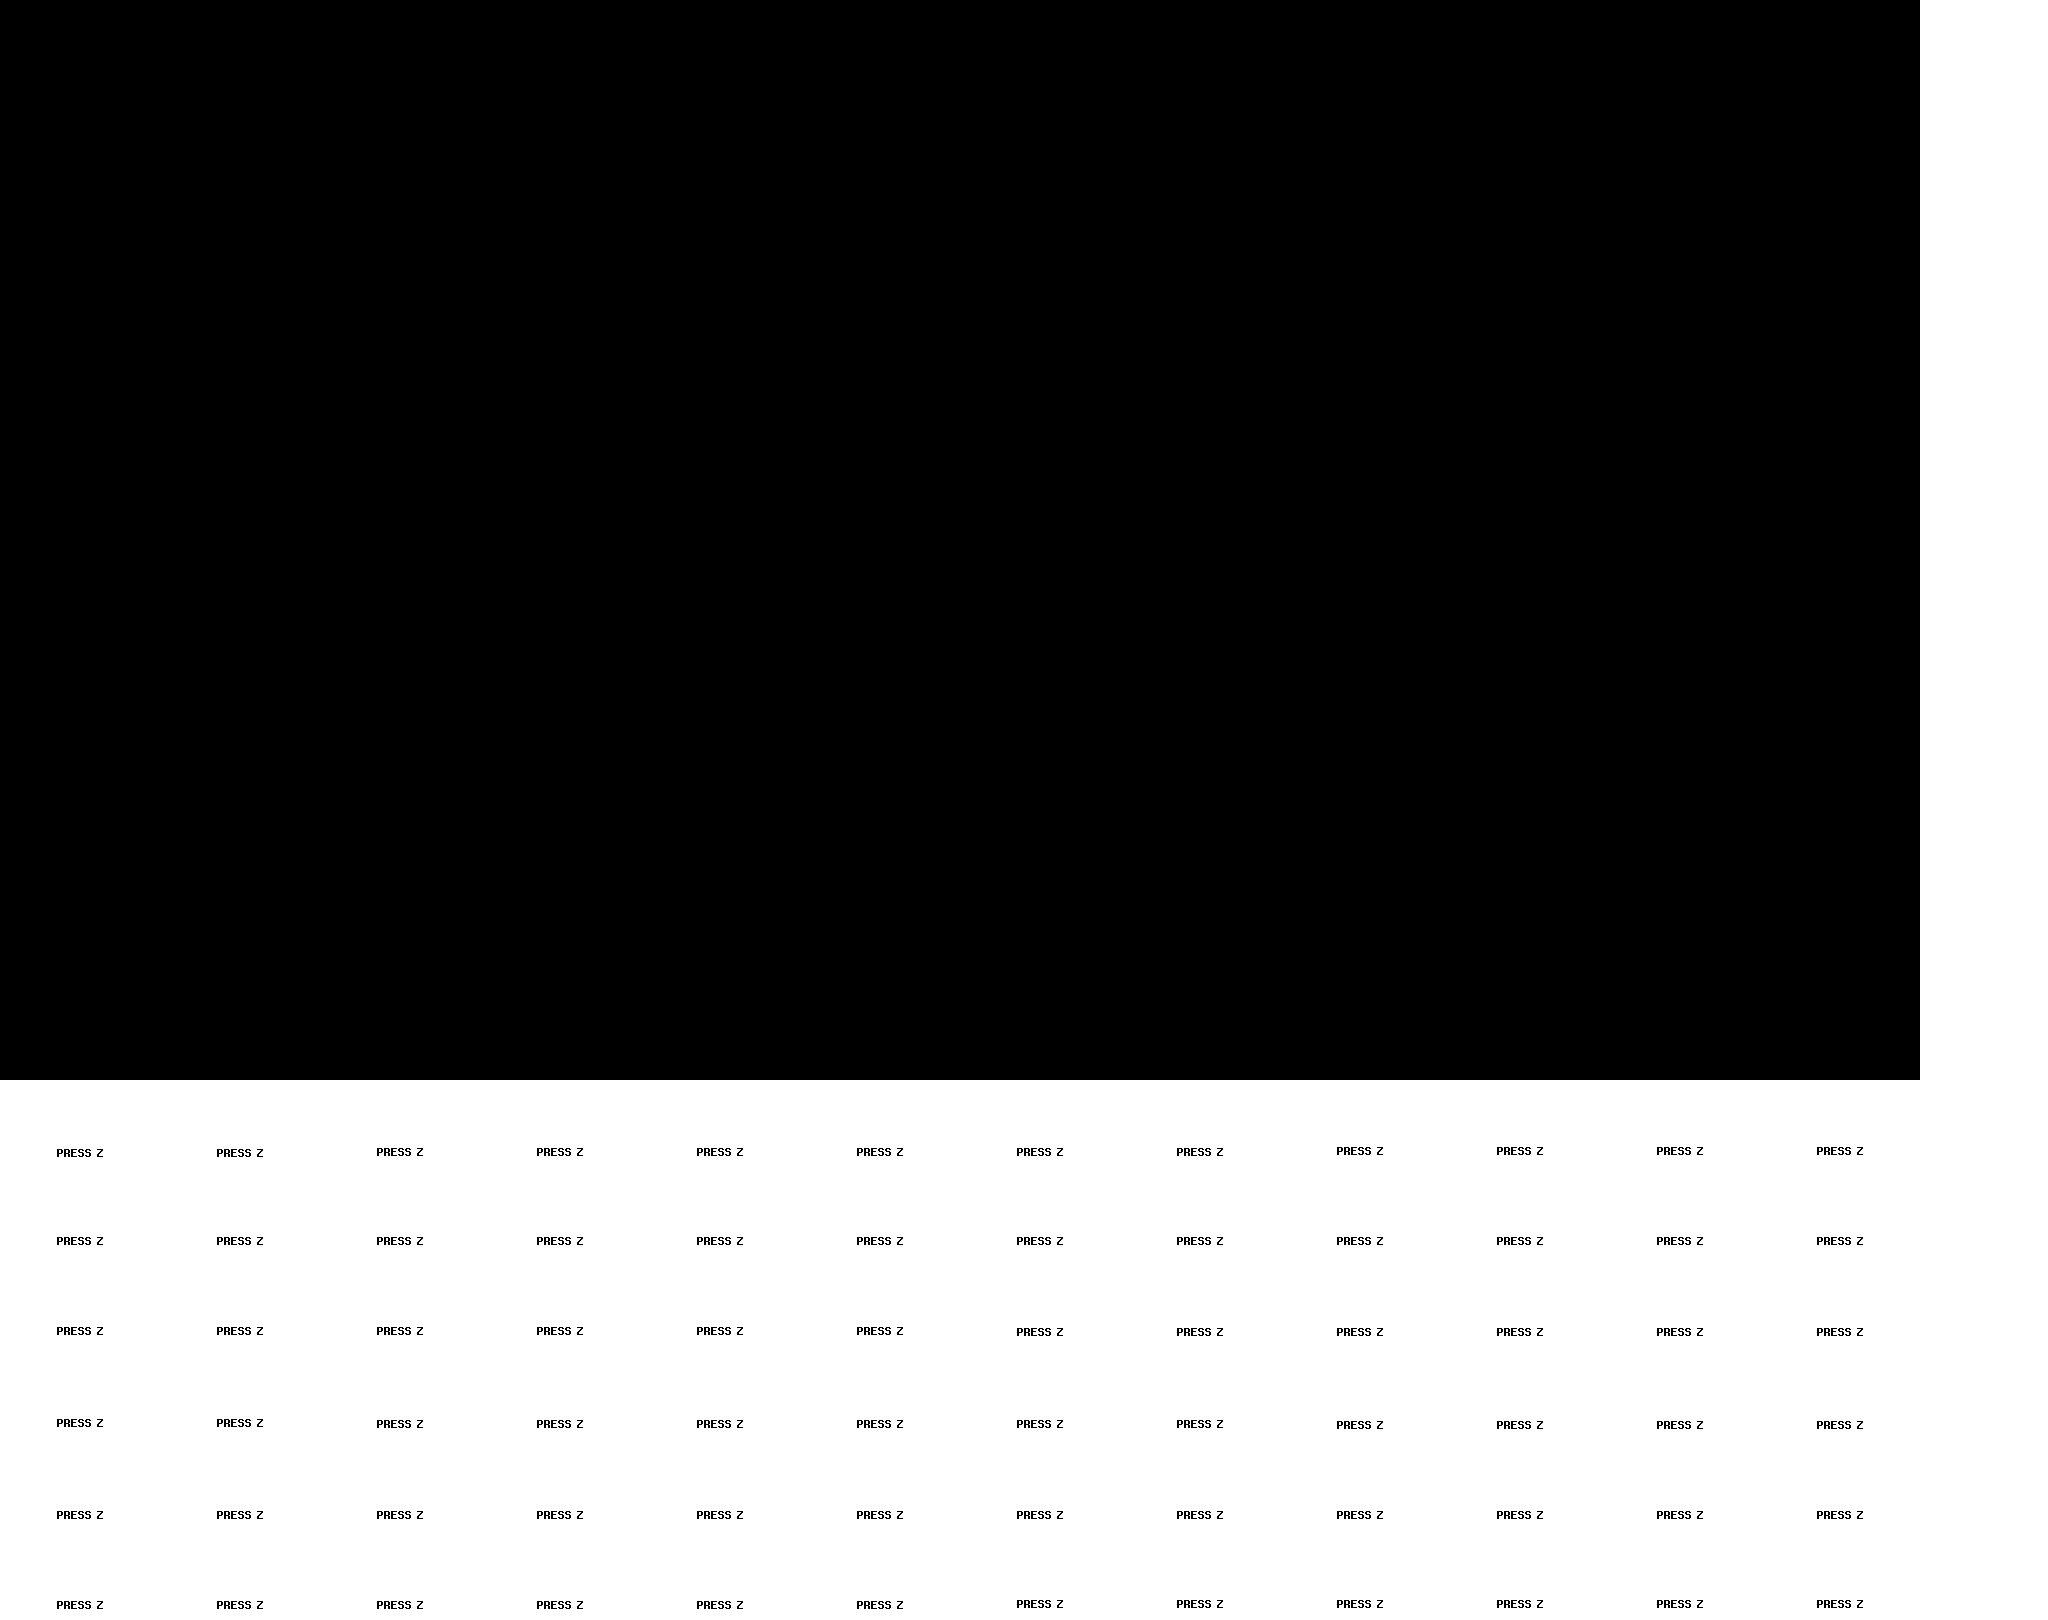
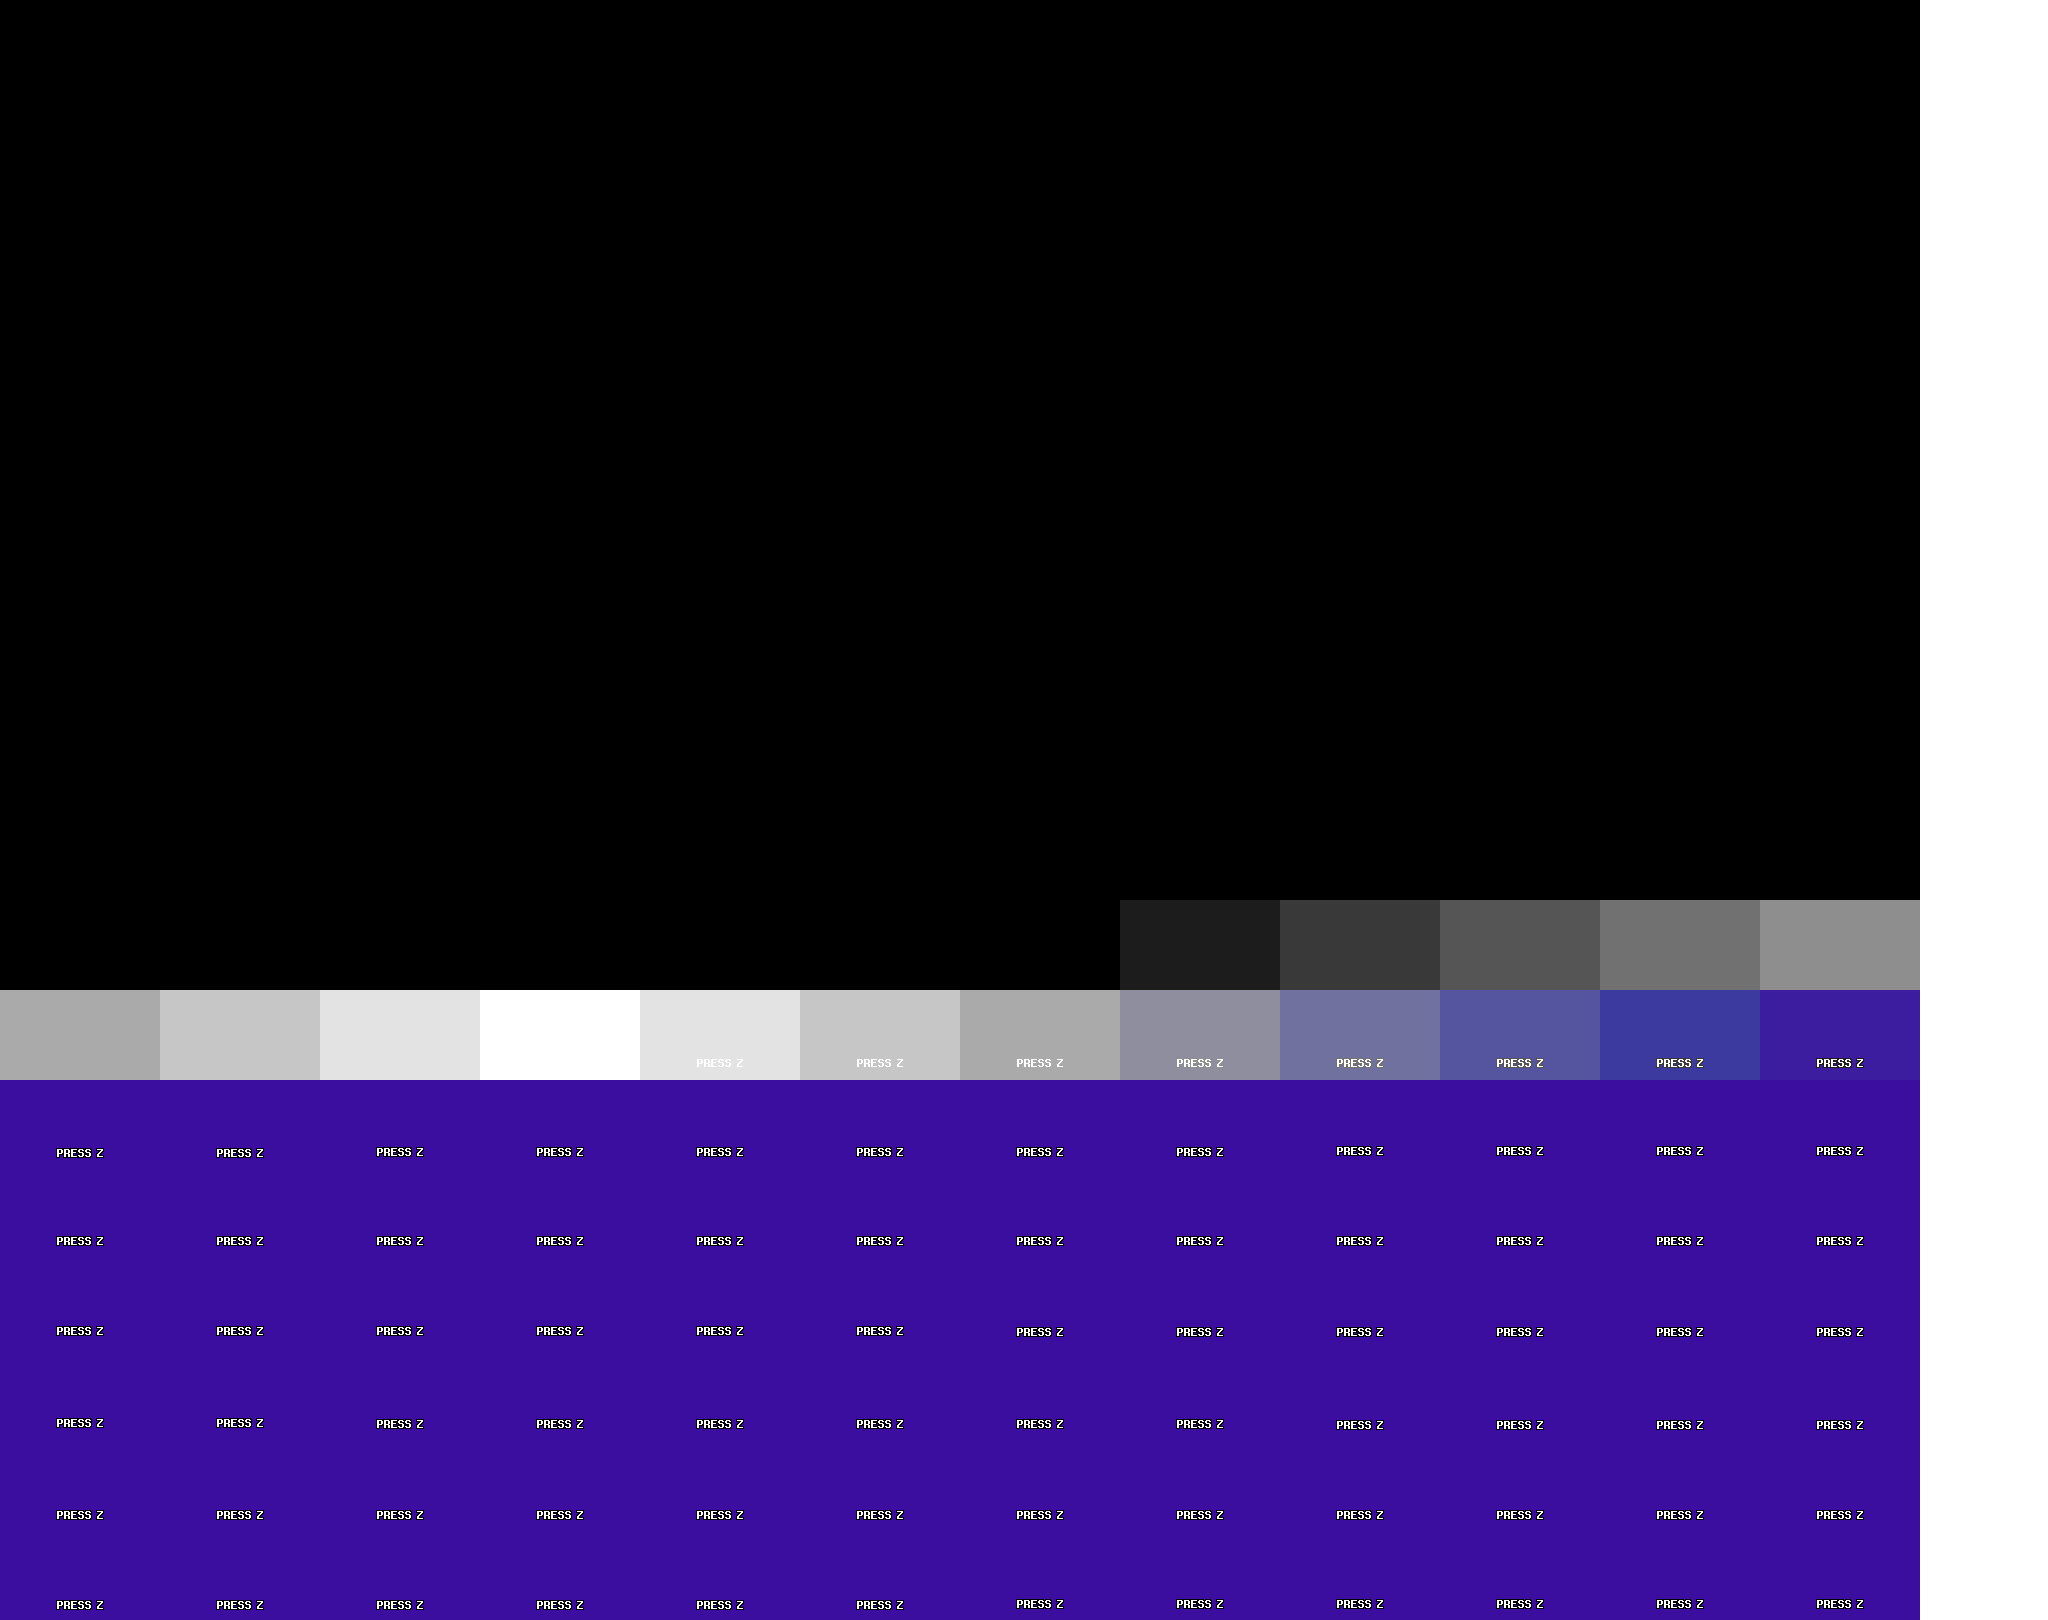
Added title screen animation

diff --git a/src/Battle.cs b/src/Battle.cs
@@ -3,126 +3,146 @@ using System;
 using System.Collections.Generic;
 
 internal sealed class Battle : Superstate<Battle> {
-	private const byte TilePixelWidth = 17;
-	private const byte TilePixelHeight = 15;
+	private const byte BattlefieldRowCount = 5;
+	private const byte BattlefieldColumnCount = 9;
 	private const byte BattlefieldPixelOffset = 4;
 
-	private readonly TowerDatum[] TowerData = [
-		new([], "null", 0, (TowerClockData data) => {}, 0),
-		new([ 1 ], "tower_1", 2, (TowerClockData data) => data.battle.MoneyClock.Tick(data.battle), 1),
-		new([ 2 ], "tower_2", 5, (TowerClockData data) => {}, 0),
-		new([ 3 ], "tower_3", 4, (TowerClockData data) => data.battle.Projectiles[data.row].Add(new(0, data.column)), 90),
-		new([ 4 ], "tower_2", 2, (TowerClockData data) => {}, 0)
+	private static readonly TowerDatum[] TowerData = [
+		new([], "null", 0, _ => { }, 0),
+		new([1], "tower_1", 2, data => data.battle.MoneyClock.Tick(data.battle), 1),
+		new([2], "tower_2", 5, data => { }, 0),
+		new([3], "tower_3", 4, data => data.battle.Projectiles[data.row].Add(new(0, data.column)), 90),
+		new([4], "tower_2", 2, data => { }, 0)
 	];
 
-	private readonly ProjectileDatum[] ProjectileData = [
+	private static readonly ProjectileDatum[] ProjectileData = [
 		new("tower_1", 1, 2)
 	];
 
-	private readonly EnemyDatum[] EnemyData = [
+	private static readonly EnemyDatum[] EnemyData = [
 		new("tower_2", 10, 1),
 		new("tower_2", 28, 1),
 		new("tower_2", 17, 2),
 		new("tower_2", 65, 1)
 	];
 
-	private readonly Clock<Battle> MoneyClock = new(600, (Battle battle) => Clamper.IncrementToMax(ref battle.Money, 300));
-	private readonly Tower[,] Towers = new Tower[5, 9];
-	private readonly HashSet<Projectile>[] Projectiles;
-	private readonly HashSet<Enemy>[] Enemies;
-	private readonly Sprite Background = new("frame");
-	private readonly Sprite ArrowUpTexture = new("arrow_up");
-	private readonly Sprite ArrowDownTexture = new("arrow_down");
-	private readonly Sprite CursorTexture = new("cursor");
+	private static readonly Sprite Background = new("frame");
+	private static readonly Sprite ArrowUpTexture = new("arrow_up");
+	private static readonly Sprite ArrowDownTexture = new("arrow_down");
+	private static readonly Sprite CursorTexture = new("cursor");
+
+	private static ushort ColumnToPosition(byte column) {
+		return (ushort)(BattlefieldPixelOffset + (column * 17));
+	}
+
+	private static ushort RowToPosition(byte row) {
+		return (ushort)(BattlefieldPixelOffset + (row * 15));
+	}
+
+	private void ForEachItem(Action<Tower, byte, byte> towerAction, Action<Projectile, byte> projectileAction, Action<Enemy, byte> enemyAction) {
+		Utility.ForEach(BattlefieldRowCount, row => {
+			Utility.ForEach(BattlefieldColumnCount, column => towerAction(Towers[row, column], row, column));
+
+			for (var i = Projectiles[row].Count - 1; i >= 0; i -= 1) {
+				projectileAction(Projectiles[row][i], row);
+			}
+
+			for (var i = Enemies[row].Count - 1; i >= 0; i -= 1) {
+				enemyAction(Enemies[row][i], row);
+			}
+		});
+	}
+
+	private readonly Clock<Battle> MoneyClock = new(600, (Battle battle) => Utility.IncrementToMax(ref battle.Money, 300));
+
+	private readonly Tower[,] Towers = new Tower[BattlefieldRowCount, BattlefieldColumnCount] {
+		{ new(0), new(0), new(0), new(0), new(0), new(0), new(0), new(0), new(0) },
+		{ new(0), new(0), new(0), new(0), new(0), new(0), new(0), new(0), new(0) },
+		{ new(0), new(0), new(0), new(0), new(0), new(0), new(0), new(0), new(0) },
+		{ new(0), new(0), new(0), new(0), new(0), new(0), new(0), new(0), new(0) },
+		{ new(0), new(0), new(0), new(0), new(0), new(0), new(0), new(0), new(0) }
+	};
+
+	private readonly List<Projectile>[] Projectiles = new List<Projectile>[BattlefieldRowCount] {
+		[], [], [], [], []
+	};
+
+	private readonly List<Enemy>[] Enemies = new List<Enemy>[BattlefieldRowCount] {
+		[], [], [], [], []
+	};
 
 	private byte Money = 20;
 	private byte CursorRow;
 	private byte CursorColumn;
 
 	public Battle() : base(new SelectState()) {
-		for (var row = 0; row < Towers.GetLength(0); row += 1) {
-			for (var col = 0; col < Towers.GetLength(1); col += 1) {
-				Towers[row, col] = new(0, TowerData);
-			}
-		};
-
-		Projectiles = new HashSet<Projectile>[Towers.GetLength(0)];
-		for (var i = 0; i < Towers.GetLength(0); i += 1) {
-			Projectiles[i] = [];
-		}
-
-		Enemies = new HashSet<Enemy>[Towers.GetLength(0)];
-		for (var i = 0; i < Towers.GetLength(0); i += 1) {
-			Enemies[i] = [];
-		}
+		Enemies[0].Add(new(0));
 	}
 
 	protected override void Update() {
 		MoneyClock.Tick(this);
 
-		for (var row = 0; row < Towers.GetLength(0); row += 1) {
-			for (var col = 0; col < Towers.GetLength(1); col += 1) {
-				Towers[row, col].clock.Tick(new(this, row, col));
-			}
-		};
+		ForEachItem(
+			(tower, row, column) => tower.clock.Tick(new(this, row, column)),
+			(projectile, row) => {
+				Enemy? enemy = Enemies[row].Find(enemy => {
+					var difference = enemy.position - projectile.position;
+					return difference >= 0 && difference < ProjectileData[projectile.datumId].speed;
+				});
 
-		foreach (var row in Projectiles) {
-			foreach (var projectile in row) {
-				projectile.position += ProjectileData[projectile.datumId].speed;
+				if (enemy != null) {
+					_ = Projectiles[row].Remove(projectile);
 
-				if (projectile.position >= TilePixelWidth * Towers.GetLength(1) + BattlefieldPixelOffset) {
-					row.Remove(projectile);
+					enemy.health -= 1;
+					if (enemy.health == 0) {
+						_ = Enemies[row].Remove(enemy);
+					}
+				} else {
+					projectile.position += ProjectileData[projectile.datumId].speed;
+
+					if (projectile.position >= ColumnToPosition(BattlefieldColumnCount)) {
+						_ = Projectiles[row].Remove(projectile);
+					}
 				}
-			}
-		}
-
-		foreach (var row in Enemies) {
-			foreach (var enemy in row) {
-				enemy.position -= EnemyData[enemy.datumId].speed;
-
-				if (enemy.position <= 0) {
-					row.Remove(enemy);
-				}
-			}
-		}
+			},
+			(enemy, row) => enemy.clock.Tick(new(enemy, Enemies[row].Remove))
+		);
 	}
 
 	protected override void Draw() {
 		Game.Draw(Background);
-		Game.DrawString([ (byte) (Money / 10), (byte) (Money % 10) ], 7, 81);
+		Game.DrawString([(byte)(Money / 10), (byte)(Money % 10)], 7, 81);
 
-		for (var row = 0; row < Towers.GetLength(0); row += 1) {
-			for (var col = 0; col < Towers.GetLength(1); col += 1) {
-				Game.Draw(TowerData[Towers[row, col].datumId].sprite, BattlefieldPixelOffset + col * TilePixelWidth, BattlefieldPixelOffset + row * TilePixelHeight);
-			}
-		}
+		ForEachItem(
+			(tower, row, column) => Game.Draw(TowerData[tower.datumId].sprite, ColumnToPosition(column), RowToPosition(row)),
+			(projectile, row) => Game.Draw(ProjectileData[projectile.datumId].sprite, projectile.position, RowToPosition(row)),
+			(enemy, row) => Game.Draw(EnemyData[enemy.datumId].sprite, enemy.position, RowToPosition(row))
+		);
 
-		for (var row = 0; row < Enemies.Length; row += 1) {
-			foreach (var enemy in Enemies[row]) {
-				Game.Draw(EnemyData[enemy.datumId].sprite, enemy.position, BattlefieldPixelOffset + row * TilePixelHeight);
-			}
-		}
-
-		for (var row = 0; row < Projectiles.Length; row += 1) {
-			foreach (var projectile in Projectiles[row]) {
-				Game.Draw(ProjectileData[projectile.datumId].sprite, projectile.position, BattlefieldPixelOffset + row * TilePixelHeight);
-			}
-		}
-
-		Game.Draw(CursorTexture, BattlefieldPixelOffset + CursorColumn * TilePixelWidth, BattlefieldPixelOffset + CursorRow * TilePixelHeight);
+		Game.Draw(CursorTexture, ColumnToPosition(CursorColumn), RowToPosition(CursorRow));
 
 		base.Draw();
 	}
 
 	private readonly struct TowerClockData {
 		internal readonly Battle battle;
-		internal readonly int row;
-		internal readonly int column;
+		internal readonly byte row;
+		internal readonly byte column;
 
-		internal TowerClockData(Battle battle, int row, int column) {
+		internal TowerClockData(Battle battle, byte row, byte column) {
 			this.battle = battle;
 			this.row = row;
 			this.column = column;
+		}
+	}
+
+	private readonly struct EnemyClockData {
+		internal readonly Enemy enemy;
+		internal readonly Func<Enemy, bool> removeFromRow;
+
+		internal EnemyClockData(Enemy enemy, Func<Enemy, bool> removeFromRow) {
+			this.enemy = enemy;
+			this.removeFromRow = removeFromRow;
 		}
 	}
 
@@ -170,89 +190,100 @@ internal sealed class Battle : Superstate<Battle> {
 		internal readonly int datumId;
 		internal readonly Clock<TowerClockData> clock;
 
-		internal Tower(int datumId, TowerDatum[] data) {
+		internal Tower(int datumId) {
 			this.datumId = datumId;
-			clock = new(data[datumId].period, data[datumId].update);
+			clock = new(TowerData[datumId].period, TowerData[datumId].update);
 		}
 	}
 
 	private sealed class Projectile {
 		internal readonly int datumId;
+		
 		internal int position;
 
-		internal Projectile(int datumId, int column) {
+		internal Projectile(int datumId, byte column) {
 			this.datumId = datumId;
-			position = BattlefieldPixelOffset + column * TilePixelWidth;
+			position = ColumnToPosition(column);
 		}
 	}
 
 	private sealed class Enemy {
 		internal readonly int datumId;
-		internal byte health;
-		internal ushort position = 160;
 
-		internal Enemy(int datumId, EnemyDatum[] data) {
+		internal readonly Clock<EnemyClockData> clock = new(20, (EnemyClockData data) => {
+			data.enemy.position -= 1;
+			if (data.enemy.position <= 0) {
+				_ = data.removeFromRow(data.enemy);
+			}
+		});
+
+		internal byte health;
+		internal int position;
+
+		internal Enemy(int datumId) {
 			this.datumId = datumId;
-			health = data[datumId].health;
+			health = EnemyData[datumId].health;
+			position = ColumnToPosition(BattlefieldColumnCount);
 		}
 	}
 
 	private sealed class SelectState : Substate<Battle> {
-		public override void OnConfirm(Battle battle) {
+		protected override void OnConfirm(Battle battle) {
 			battle.ChangeSubstate<BuildState>();
 		}
 
-		public override void OnMoveUp(Battle battle) {
-			Clamper.DecrementToMin(ref battle.CursorRow, 0);
+		protected override void OnMoveUp(Battle battle) {
+			Utility.DecrementToMin(ref battle.CursorRow, 0);
 		}
 
-		public override void OnMoveDown(Battle battle) {
-			Clamper.IncrementToMax(ref battle.CursorRow, battle.Towers.GetLength(0));
+		protected override void OnMoveDown(Battle battle) {
+			Utility.IncrementToMax(ref battle.CursorRow, BattlefieldRowCount);
 		}
 
-		public override void OnMoveLeft(Battle battle) {
-			Clamper.DecrementToMin(ref battle.CursorColumn, 0);
+		protected override void OnMoveLeft(Battle battle) {
+			Utility.DecrementToMin(ref battle.CursorColumn, 0);
 		}
 
-		public override void OnMoveRight(Battle battle) {
-			Clamper.IncrementToMax(ref battle.CursorColumn, battle.Towers.GetLength(1));
+		protected override void OnMoveRight(Battle battle) {
+			Utility.IncrementToMax(ref battle.CursorColumn, BattlefieldColumnCount);
 		}
 	}
 
 	private sealed class BuildState : Substate<Battle> {
 		private int TowerIndex;
 
-		public override void OnConfirm(Battle battle) {
-			if (battle.Money >= battle.TowerData[TowerIndex].cost) {
-				battle.Money -= battle.TowerData[TowerIndex].cost;
-				battle.Towers[battle.CursorRow, battle.CursorColumn] = new(TowerIndex, battle.TowerData);
+		protected override void OnConfirm(Battle battle) {
+			if (battle.Money >= TowerData[TowerIndex].cost) {
+				battle.Money -= TowerData[TowerIndex].cost;
+				battle.Towers[battle.CursorRow, battle.CursorColumn] = new(TowerIndex);
 				battle.ChangeSubstate<SelectState>();
 			}
 		}
 
-		public override void OnCancel(Battle battle) {
+		protected override void OnCancel(Battle battle) {
 			battle.ChangeSubstate<SelectState>();
 		}
 
-		public override void OnMoveUp(Battle battle) {
-			Clamper.DecrementToMin(ref TowerIndex, 0);
+		protected override void OnMoveUp(Battle battle) {
+			Utility.DecrementToMin(ref TowerIndex, 0);
 		}
 
-		public override void OnMoveDown(Battle battle) {
-			Clamper.IncrementToMax(ref TowerIndex, battle.TowerData.Length);
+		protected override void OnMoveDown(Battle battle) {
+			Utility.IncrementToMax(ref TowerIndex, TowerData.Length);
 		}
 
-		public override void Draw(Battle battle) {
+		protected override void Draw(Battle battle) {
 			if (TowerIndex > 0) {
-				Game.Draw(battle.ArrowUpTexture, 21, 81);
+				Game.Draw(ArrowUpTexture, 21, 81);
 			}
 
-			if (TowerIndex < battle.TowerData.Length - 1) {
-				Game.Draw(battle.ArrowDownTexture, 21, 86);
+			if (TowerIndex < TowerData.Length - 1) {
+				Game.Draw(ArrowDownTexture, 21, 86);
 			}
 
-			Game.DrawString(battle.TowerData[TowerIndex].name, 27, 81);
-			Game.DrawString([ battle.TowerData[TowerIndex].cost ], 154, 81);
+			TowerDatum towerDatum = TowerData[TowerIndex];
+			Game.DrawString(towerDatum.name, 27, 81);
+			Game.DrawString([towerDatum.cost], 154, 81);
 		}
 	}
 }

diff --git a/src/Title.cs b/src/Title.cs
@@ -3,13 +3,18 @@ using MGLib;
 Game.Start<Title>(160, 90);
 
 internal sealed class Title : State {
-	private readonly Sprite background = new("title");
+	private static readonly Song music = new("title-screen");
+	private static readonly Animation titleAnimation = new("title-animated", 160, 90, 4, 144, 215);
+
+	public Title() {
+		Game.ChangeSong(music);
+	}
 
 	protected override void OnConfirm() {
 		Game.ChangeState<Battle>();
 	}
 
 	protected override void Draw() {
-		Game.Draw(background);
+		titleAnimation.Draw();
 	}
 }
